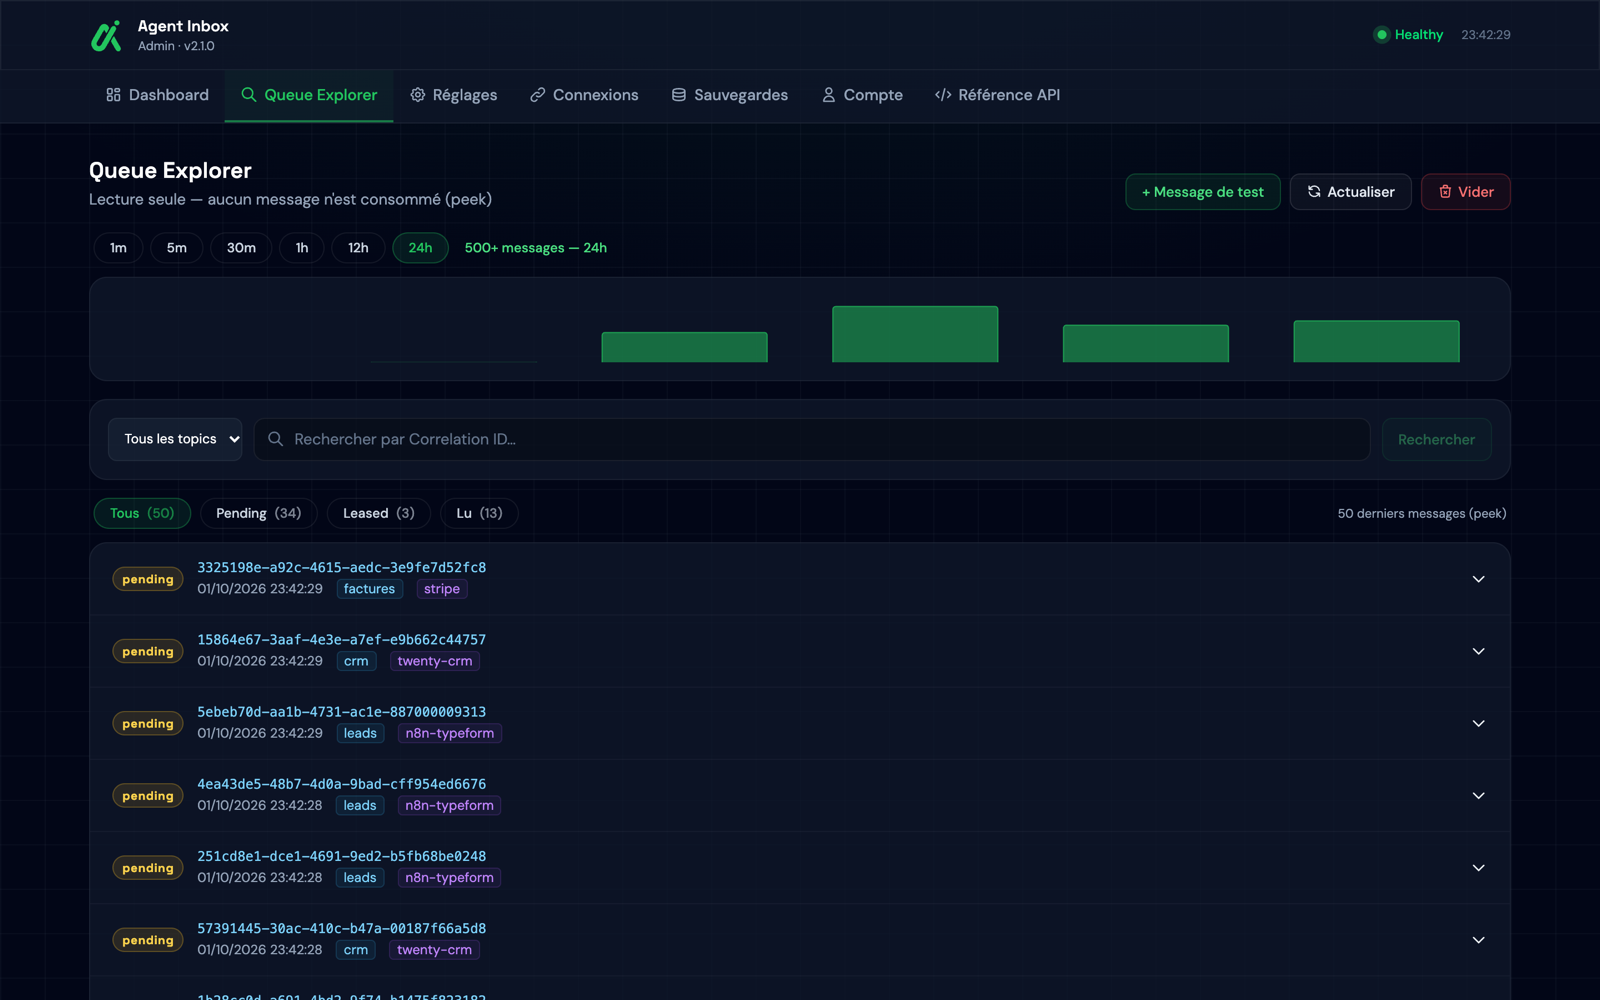
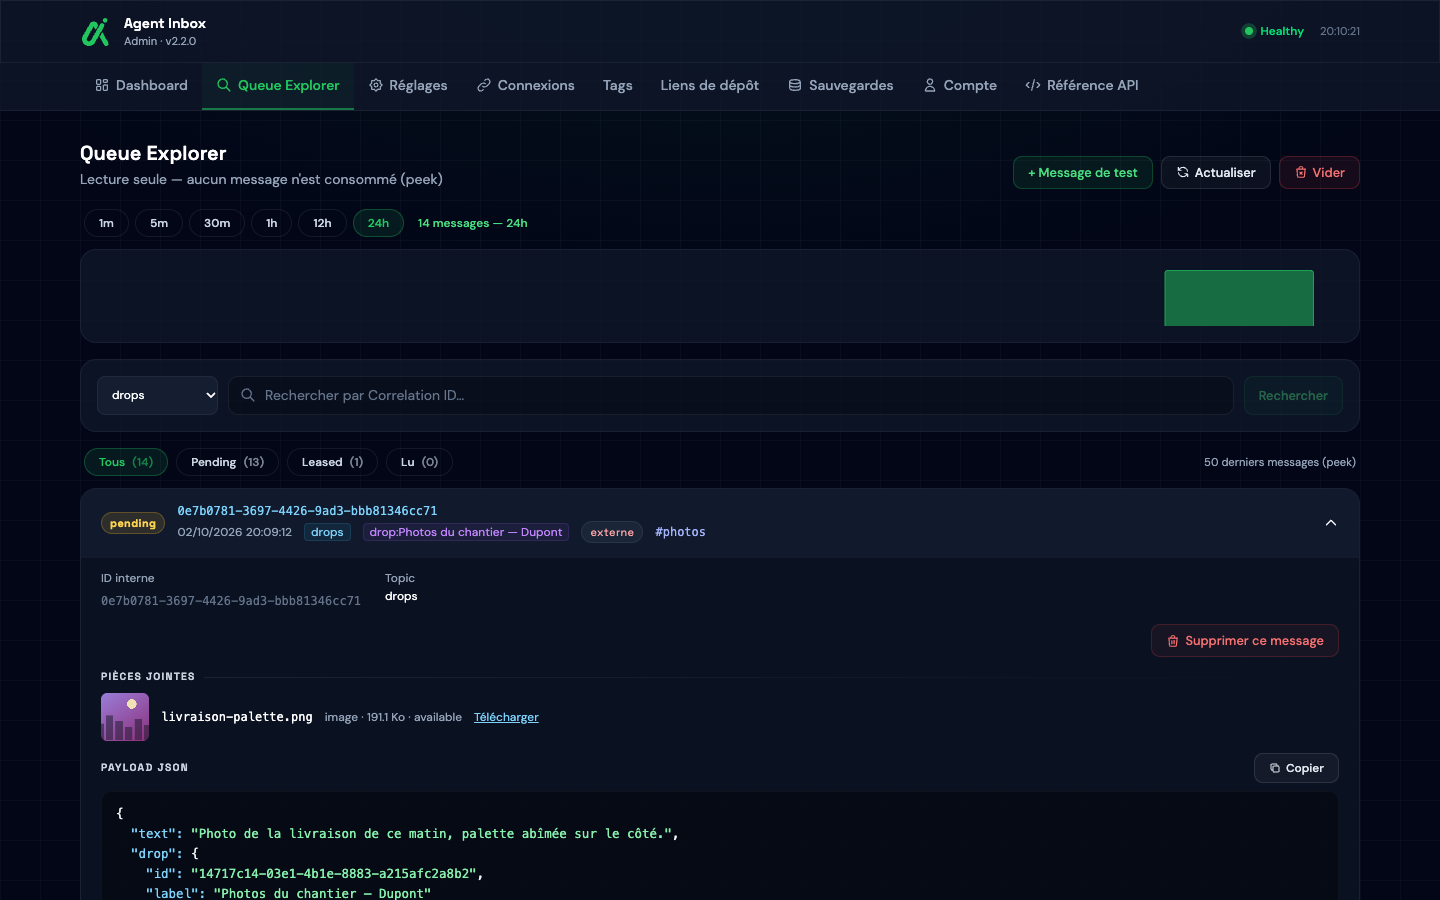
docs: captures et démo 2.2

diff --git a/README.md b/README.md
@@ -151,7 +151,7 @@ Détails et signalement d'une faille : [SECURITY.md](SECURITY.md).
 
 <table>
   <tr>
-    <td width="50%"><img src="docs/images/admin-dashboard.png" alt="Tableau de bord"><br><sub>Le tableau de bord : état de la file d'un coup d'œil.</sub></td>
+    <td width="50%"><img src="docs/images/admin-stockage.png" alt="Tableau de bord"><br><sub>Le tableau de bord : état de la file d'un coup d'œil.</sub></td>
     <td width="50%"><img src="docs/images/admin-explorer.png" alt="Queue Explorer"><br><sub>Queue Explorer : lecture seule, filtres par topic et statut, aucun message consommé.</sub></td>
   </tr>
   <tr>
@@ -161,6 +161,13 @@ Détails et signalement d'une faille : [SECURITY.md](SECURITY.md).
   <tr>
     <td><img src="docs/images/admin-sauvegardes.png" alt="Sauvegardes"><br><sub>Sauvegardes de la base : télécharger ou restaurer en un clic.</sub></td>
     <td><img src="docs/images/consentement.png" alt="Écran de consentement OAuth"><br><sub>Consentement OAuth : vous autorisez chaque client, et seulement lui.</sub></td>
+  </tr>
+  <tr>
+    <td><img src="docs/images/admin-tags.png" alt="Tags"><br><sub>Tags.</sub></td>
+    <td><img src="docs/images/admin-drops.png" alt="Liens de dépôt"><br><sub>Liens de dépôt.</sub></td>
+  </tr>
+  <tr>
+    <td colspan="2"><img src="docs/images/page-depot.png" alt="Page publique de dépôt"><br><sub>Page publique de dépôt.</sub></td>
   </tr>
 </table>
 
